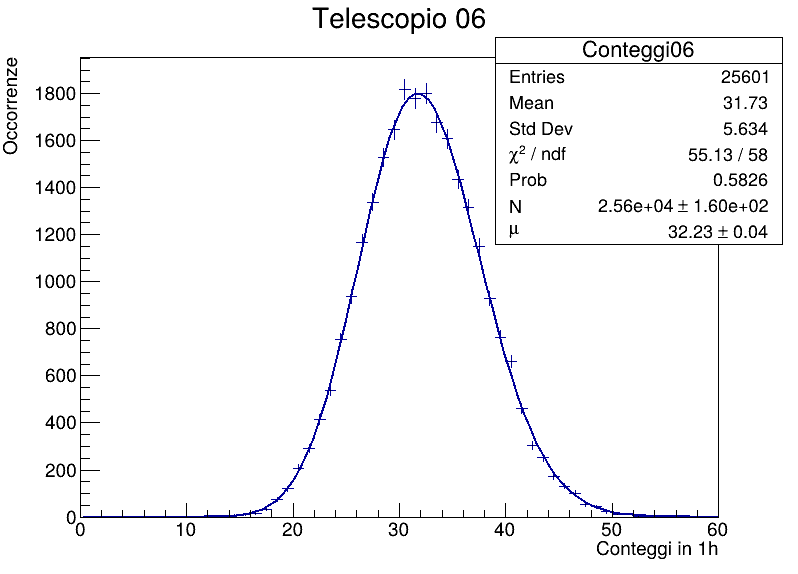
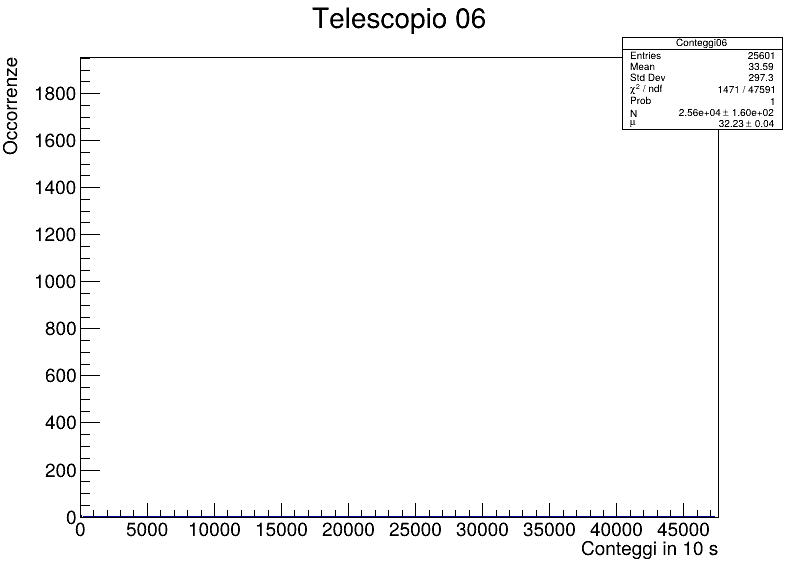
Poissonian distribution

diff --git a/Sciami/flux_graphs_10.h b/Sciami/flux_graphs_10.h
@@ -211,7 +211,7 @@ void Rategraph3(double& interval, int& num_intervals, const std::vector<double>&
 
     c1->Update();
     
-    c1->SaveAs("Risultati/Rateneltempo_7d.png");
+    //c1->SaveAs("Risultati/Rateneltempo_7d.png");
 } 
 
 // Monitoraggio in funzione del tempo dell'efficienza dei PMT del Telescopio06 con fit lineare
@@ -293,7 +293,7 @@ void efficiency_set06(double& interval_eff,int& num_intervals_eff,std::vector<do
 }
 
 // Funzione per creare l'istogramma dei conteggi in un intervallo temporale fissato e fare il fit poissoniano
-double histogram_fitpoiss(double interval,int num_intervals,std::vector <double>& times,const char* hist_name, const char* title, Color_t color){
+double histogram_fitpoiss(double interval,int num_intervals,std::vector <double>& times,const char* hist_name, const char* title, Color_t color, int correction=0){
     // Vettore per memorizzare il conteggio degli eventi per ciascun intervallo
     std::vector<int> counts(num_intervals, 0);
 
@@ -302,6 +302,21 @@ double histogram_fitpoiss(double interval,int num_intervals,std::vector <double>
         int bin = static_cast<int>(t / interval);
         if (bin < num_intervals) {
             counts[bin]++;
+        }
+    }
+    
+    double accidental_rate = 0.368; // Hz
+    double expected_accidentals = accidental_rate * interval;
+
+    // Calcolo delle coincidenze accidentali
+    if (correction > 0) {
+        for (int i = 0; i < num_intervals; ++i) {
+            std::cout<<counts[i]<<std::endl;
+            if (counts[i] > expected_accidentals) {
+                counts[i] -=expected_accidentals;
+            } else {
+                counts[i] = 0; // Imposta a zero se il conteggio è minore o uguale
+            }
         }
     }
 
@@ -317,7 +332,7 @@ double histogram_fitpoiss(double interval,int num_intervals,std::vector <double>
     for (int i = 1; i <= hist->GetNbinsX(); ++i) {
         hist->SetBinError(i, std::sqrt(static_cast<double>(hist->GetBinContent(i))));
     }
-    hist->SetXTitle("Conteggi in 1h");
+    hist->SetXTitle("Conteggi in 10 s");
     hist->SetYTitle("Occorrenze");
 
     // Definisci la funzione di fit poissoniana con due parametri liberi: N e μ
@@ -333,11 +348,11 @@ double histogram_fitpoiss(double interval,int num_intervals,std::vector <double>
     gStyle->SetOptStat(1111); // Mostra Entries, Mean, Std Dev
     gStyle->SetOptFit(1111);  // Mostra i risultati del fit inclusi Chi^2/NDF, Prob, N e λ
 
-    // Calcola il chi quadro e il p-value
-    double chi2 = poissonFit->GetChisquare();
-    double ndf = poissonFit->GetNDF();
-    double p_value = 1 - TMath::Prob(chi2, ndf);
-    std::cout << "P-value: " << p_value << std::endl;
+    double mu = poissonFit->GetParameter(1);
+    double muError = poissonFit->GetParError(1);
+    // Stampa mu con 5 cifre significative
+    std::cout << std::fixed << std::setprecision(5);
+    std::cout << "Valore di mu: " << mu << " ± " << muError << std::endl;
 
     // Crea il canvas e disegna l'istogramma con il fit
     TCanvas* canvaspoiss = new TCanvas("canvaspoiss", "Fit Poissoniano dei Conteggi", 800, 600);
@@ -350,12 +365,13 @@ double histogram_fitpoiss(double interval,int num_intervals,std::vector <double>
     
     // Estrazione del valore di best fit per mu
     double best_fit_rate = poissonFit->GetParameter("#mu")/static_cast<double>(10);
-    std::cout << "Valore di best fit per mu: " << best_fit_rate << std::endl;
+    double sigma_best_fit_rate=poissonFit->GetParError(1)/static_cast<double>(10);
+    std::cout << "Valore di best fit per il rate: " << best_fit_rate << " +- "<< sigma_best_fit_rate<<" Hz"<< std::endl;
     return best_fit_rate;
 }
 
 // Funzione per creare l'istogramma degli intervalli di tempo e fare il fit esponenziale
-void histogram_fitexponential(std::vector<double>& times, const double& guess_rate) {
+void histogram_fitexponential(std::vector<double>& times, const double& guess_rate, const char* hist_name, const char* title, Color_t color, int correction=0) {
     // Calcolo delle differenze tra i tempi
     std::vector<double> time_differences;
     for (size_t i = 1; i < times.size(); ++i) {
@@ -363,32 +379,47 @@ void histogram_fitexponential(std::vector<double>& times, const double& guess_ra
     }
 
     // Creazione dell'istogramma con 100 bins equispaziati
-    TH1F* h1 = new TH1F("h1", "Differenze tra i tempi del telescopio 04;Differenza di Tempo (s);Conteggi", 100, 0, *std::max_element(time_differences.begin(), time_differences.end()));
+    TH1F* h1 = new TH1F(hist_name, title, 100, 0, *std::max_element(time_differences.begin(), time_differences.end()));
+
+    // Calcolo delle coincidenze accidentali
+    double Nd_acc = calculate_double_accidental_counts(); // Implementa questa funzione
+    double Nt_acc = calculate_triple_accidental_counts(Nd_acc); // Implementa questa funzione
 
     // Riempimento dell'istogramma con le differenze tra i tempi
     for (double t_diff : time_differences) {
-        h1->Fill(t_diff);
+        if (t_diff > 0) { // Considera solo valori positivi
+            h1->Fill(t_diff);
+        }
     }
+
+    // Sottrazione delle coincidenze accidentali
+    for (int bin = 1; bin <= h1->GetNbinsX(); ++bin) {
+        double count = h1->GetBinContent(bin);
+        h1->SetBinContent(bin, count - Nd_acc); // Sottrai le coincidenze accidentali
+    }
+
+    h1->SetXTitle("Differenza di tempo (s)");
+    h1->SetYTitle("Conteggi");
 
     // Creazione della funzione esponenziale per il fit
     TF1* expFit = new TF1("expFit", "[0]*exp(-x*[1])", 0, *std::max_element(time_differences.begin(), time_differences.end()));
-    expFit->SetParName(0, "N");  // Rinomina il parametro 0 a "N"
-    expFit->SetParName(1, "#lambda");  // Rinomina il parametro 1 a "Lambda"
-    expFit->SetParameters(270e3, guess_rate); // Imposta valori iniziali per i parametri del fit: N e lambda
-
+    expFit->SetParName(0, "N");
+    expFit->SetParName(1, "#lambda");
+    expFit->SetParameters(270e3, guess_rate);
 
     // Esecuzione del fit esponenziale con il metodo di Likelihood
     h1->Fit("expFit", "L");
 
-    // Configura il box delle statistiche per mostrare ulteriori informazioni
-    gStyle->SetOptStat(1111); // Mostra Entries, Mean, Std Dev
-    gStyle->SetOptFit(1111);  // Mostra i risultati del fit inclusi Chi^2/NDF, Prob, N e λ
+    // Configura il box delle statistiche
+    gStyle->SetOptStat(1111);
+    gStyle->SetOptFit(1011);
 
     // Creazione del canvas e disegno dell'istogramma con il fit
     TCanvas* c4 = new TCanvas("c4", "Istogramma delle differenze tra i tempi (singolo telescopio)", 800, 600);
     c4->cd(1);
     h1->Draw();
     expFit->Draw("same");
+    expFit->SetLineColor(color);
     c4->Update();
 }
 

diff --git a/Sciami/atmosphere.h b/Sciami/atmosphere.h
@@ -300,35 +300,23 @@ void plotCorrelationTemp(const std::vector<BinnedData>& atmDataBins, double& int
     graph3->SetLineColor(kGreen + 2); 
     graph3->Draw("AP");
 
-    
     // Esegui il fit lineare
     TF1* fitFunc = new TF1("fitFunc", "pol1", 0, 14); // Sostituisci con l'intervallo appropriato
     
     // Impostazione dei parametri iniziali
     fitFunc->SetParameter(0, 11.3); // Intercetta iniziale
     fitFunc->SetParameter(1, +0.02); // Coefficiente angolare iniziale
+    
+    fitFunc->SetParName(0, "intercetta:");  // Rinomina il parametro 0 a "N"
+    fitFunc->SetParName(1, "coefficiente");
     graph3->Fit(fitFunc);
 
-
-    // Stampa i risultati del fit con incertezze
-    double slope = fitFunc->GetParameter(1);   // Coefficiente angolare
-    double intercept = fitFunc->GetParameter(0); // Intercetta
-    double slopeError = fitFunc->GetParError(1);   // Incertezza sul coefficiente angolare
-    double interceptError = fitFunc->GetParError(0); // Incertezza sull'intercetta
-
-    // Imposta la precisione a due cifre significative
-    std::cout << std::fixed << std::setprecision(2);
-    
-    // Aggiungi media campionaria, deviazione standard e incertezza al grafico
-    TPaveText* pave1 = new TPaveText(0.65, 0.85, 0.85, 0.95, "NDC");
-    pave1->SetFillColor(kWhite);
-    pave1->SetBorderSize(1);
-    pave1->SetTextAlign(14);
-    pave1->AddText(Form("Coefficiente angolare: %.3f #pm %.3f Hz/#circC", slope, slopeError));
-    pave1->AddText(Form("Intercetta = %.2f #pm %.2f Hz", intercept, interceptError));
-    pave1->Draw();
+    // Configura il box delle statistiche per mostrare ulteriori informazioni
+    gStyle->SetOptStat(1111); // Mostra Entries, Mean, Std Dev
+    gStyle->SetOptFit(1111);  // Mostra i risultati del fit inclusi Chi^2/NDF
 
     canvastemp->Update();
+    //canvastemp->SaveAs("Risultati/CorrTemp_3d.png");
 }
 
 void plotCorrTemp1d(const std::vector<BinnedData>& atmDataBins, double& interval, int& num_intervals, const std::vector<double>& t1,
@@ -440,27 +428,17 @@ void plotCorrelationPress(const std::vector<BinnedData>& atmDataBins, double& in
     // Impostazione dei parametri iniziali
     fitFunc->SetParameter(0, 11.10); // Intercetta iniziale
     fitFunc->SetParameter(1, -0.02); // Coefficiente angolare iniziale
+
+    fitFunc->SetParName(0, "intercetta:");  // Rinomina il parametro 0 a "N"
+    fitFunc->SetParName(1, "coefficiente");
     graph3->Fit(fitFunc);
 
-    // Stampa i risultati del fit con incertezze
-    double slope = fitFunc->GetParameter(1);   // Coefficiente angolare
-    double intercept = fitFunc->GetParameter(0); // Intercetta
-    double slopeError = fitFunc->GetParError(1);   // Incertezza sul coefficiente angolare
-    double interceptError = fitFunc->GetParError(0); // Incertezza sull'intercetta
-
-    // Imposta la precisione a due cifre significative
-    std::cout << std::fixed << std::setprecision(2);
+    // Configura il box delle statistiche per mostrare ulteriori informazioni
+    gStyle->SetOptStat(1111); // Mostra Entries, Mean, Std Dev
+    gStyle->SetOptFit(1111);  // Mostra i risultati del fit inclusi Chi^2/NDF
     
-    // Aggiungi media campionaria, deviazione standard e incertezza al grafico
-    TPaveText* pave2 = new TPaveText(0.65, 0.85, 0.85, 0.95, "NDC");
-    pave2->SetFillColor(kWhite);
-    pave2->SetBorderSize(1);
-    pave2->SetTextAlign(14);
-    pave2->AddText(Form("Coefficiente angolare: %.3f #pm %.3f Hz/mbar", slope, slopeError));
-    pave2->AddText(Form("Intercetta = %.2f #pm %.2f Hz", intercept, interceptError));
-    pave2->Draw();
-
     canvaspress->Update();
+    //canvaspress->SaveAs("Risultati/CorrPress_3d.png");
 }
 
 // Funzione per tracciare il grafico di correlazione (umiditàr)
@@ -491,13 +469,15 @@ void plotCorrelationHum(const std::vector<BinnedData>& atmDataBins, double& inte
     TCanvas* canvashum = new TCanvas("canvashum", "Correlazione tra Umidità e Rates", 800, 600);
 	canvashum->SetGrid(); 
 
-    graph3->SetTitle("Setup04 e Umidita;Umidita (%);Rate (Hz)"); 
+    graph3->SetTitle("Setup04 e Umidita'; Umidita' (%);Rate (Hz)"); 
     graph3->SetMarkerStyle(8); 
     graph3->SetMarkerSize(1);
     graph3->SetMarkerColor(kGreen + 2);
     graph3->SetLineColor(kGreen + 2); //serve per avere lo stesso colore anche nelle barre di errore
     graph3->Draw("AP");
     canvashum->Update();
+    
+    //canvashum->SaveAs("Risultati/CorrHum_3d.png");
 }
 
 // Funzione per tracciare parametri atmosferici in funzione del tempo
@@ -540,12 +520,12 @@ void plotWeatherData(const std::vector<BinnedData>& atmDataBins){
 
     canvasatm->cd(3);
     TGraph* graphhum= new TGraph(hours.size(), hours.data(), hum.data());
-    graphhum->SetTitle("Umidita;Tempo (h);Umidita (%)"); 
+    graphhum->SetTitle("Umidita';Tempo (h);Umidita' (%)"); 
     graphhum->SetMarkerStyle(22); 
     graphhum->SetMarkerSize(1);
     graphhum->Draw("APL");   
 
-    canvasatm->SaveAs("Risultati/Atm_7d.png");
+    //canvasatm->SaveAs("Risultati/Atm_7d.png");
     return;
 }
 

diff --git a/Sciami/Acquisition_3d.cpp b/Sciami/Acquisition_3d.cpp
@@ -62,6 +62,38 @@ int acquisizione3giorni() {
     int num_intervals=static_cast<int>(total_time / interval);
     Rategraph3(interval,num_intervals,channelTimes[1],channelTimes[3], channelTimes[6]);
 
+    std::cout << "Distribuzione poissoniana" << std::endl;
+
+    double rate06 = histogram_fitpoiss(10, static_cast<int>(total_time / 10), channelTimes[1], "Conteggi06","Telescopio 06",kBlue + 2);
+    //canvas06->SaveAs("Risultati/Poisson06_3d.png");
+
+    double rate08 = histogram_fitpoiss(10, static_cast<int>(total_time / 10), channelTimes[3], "Conteggi08","Telescopio 08",kRed + 2,1);
+    //canvas08->SaveAs("Risultati/Poisson08_3d.png");
+
+    double rate04=histogram_fitpoiss(10, static_cast<int>(total_time / 10), channelTimes[6], "Conteggi04", "Telescopio 04",kGreen + 2);
+    //canvas04->SaveAs("Risultati/Poisson04_3d.png");
+
+    std::cout<<"Distribuzione esponenziale"<<std::endl;
+
+    // Inizializzazione e utilizzo di canvas06
+    TCanvas* canvas06 = new TCanvas("canvas06", "Fit esponenziale Telescopio 06", 800, 600);
+    canvas06->cd();
+    histogram_fitexponential(channelTimes[1], rate06,"Dt Setup06","Telescopio 06",kBlue + 2);
+    canvas06->Update();
+
+    TCanvas* canvas08 = new TCanvas("canvas08", "Fit esponenziale Telescopio 08", 800, 600);
+    canvas08->cd();
+    histogram_fitexponential(channelTimes[3], rate08,"Dt Setup08","Telescopio 08",kRed + 2,1);
+    canvas08->Update();
+
+    TCanvas* canvas04 = new TCanvas("canvas04", "Fit esponenziale Telescopio 04", 800, 600);
+    canvas04->cd();
+    histogram_fitexponential(channelTimes[6], rate04,"Dt Setup04","Telescopio 04",kGreen + 2);
+    canvas04->Update();
+
+    std::cout<<"Efficienza dei fotomoltiplicatori nel tempo"<<std::endl;
+
+    /*
     // Vettore di AtmData per memorizzare i dati atmosferici
     std::vector<AtmData> atmDataList;
     //effettivi dati atmosferici utilizzati per l'operazione di correlazione
@@ -79,37 +111,14 @@ int acquisizione3giorni() {
 
     std::cout<<"Correlazione tra parametri atmosferici e rate "<<std::endl;
     plotCorrelationTemp(atmDataBins, interval, num_intervals, channelTimes[1],channelTimes[3], channelTimes[6]);
-    //plotCorrTemp1d(atmDataBins, interval, num_intervals, channelTimes[1],channelTimes[3], channelTimes[6]);
+    plotCorrTemp1d(atmDataBins, interval, num_intervals, channelTimes[1],channelTimes[3], channelTimes[6]);
     plotCorrelationPress(atmDataBins, interval, num_intervals, channelTimes[1],channelTimes[3], channelTimes[6]);
     TCanvas* canvasHum = new TCanvas("canvasHum", "Correlazione tra Umidità e Rates", 800, 600);
     canvasHum->cd();
     plotCorrelationHum(atmDataBins, interval, num_intervals, channelTimes[1], channelTimes[3], channelTimes[6]);
     canvasHum->Update(); // Aggiorna per visualizzare il grafico
-
-    std::cout << "Distribuzione poissoniana" << std::endl;
-
-    TCanvas* canvas06 = new TCanvas("canvas06", "Fit Poissoniano Telescopio 06", 800, 600);
-    canvas06->cd();
-    double rate06 = histogram_fitpoiss(10, static_cast<int>(total_time / 10), channelTimes[1], "Conteggi06","Telescopio 06",kBlue + 2);
-    canvas06->Update();
-    canvas06->SaveAs("Risultati/Poisson06_3d.png");
-
-    //TCanvas* canvas08 = new TCanvas("canvas08", "Fit Poissoniano Telescopio 08", 800, 600);
-    //canvas08->cd();
-    double rate08 = histogram_fitpoiss(10, static_cast<int>(total_time / 10), channelTimes[3], "Conteggi08","Telescopio 08",kRed + 2);
-    //canvas08->Update();
-    //canvas08->SaveAs("Risultati/Poisson08_3d.png");
-
-    //TCanvas* canvas04 = new TCanvas("canvas04", "Fit Poissoniano Telescopio 04", 800, 600);
-    //canvas04->cd();
-    double rate04=histogram_fitpoiss(10, static_cast<int>(total_time / 10), channelTimes[6], "Conteggi04", "Telescopio 04",kGreen + 2);
-    //canvas04->Update();
-    //canvas04->SaveAs("Risultati/Poisson04_3d.png");
-
-    std::cout<<"Distribuzione esponenziale"<<std::endl;
     
-    
-    std::cout<<"Efficienza dei fotomoltiplicatori nel tempo"<<std::endl;
+    */
 
     return 0;
 }

diff --git a/Sciami/Acquisition_7d.cpp b/Sciami/Acquisition_7d.cpp
@@ -62,7 +62,24 @@ int acquisizione7giorni() {
     int num_intervals=static_cast<int>(total_time / interval);
     Rategraph3(interval,num_intervals,channelTimes[1],channelTimes[3], channelTimes[6]);
 
-    
+    std::cout << "Distribuzione poissoniana" << std::endl;
+    //TCanvas* canvas06 = new TCanvas("canvas06", "Fit Poissoniano Telescopio 06", 800, 600);
+    //canvas06->cd();
+    double rate06 = histogram_fitpoiss(10, static_cast<int>(total_time / 10), channelTimes[1], "Conteggi06","Telescopio 06",kBlue + 2);
+    //canvas06->Update();
+    //canvas06->SaveAs("Risultati/Poisson06_7d.png");
+    TCanvas* canvas08 = new TCanvas("canvas08", "Fit Poissoniano Telescopio 08", 800, 600);
+    //canvas08->cd();
+    double rate08 = histogram_fitpoiss(10, static_cast<int>(total_time / 10), channelTimes[3], "Conteggi08","Telescopio 08",kRed + 2,1);
+    //canvas08->Update();
+    //canvas08->SaveAs("Risultati/Poisson08_7d.png");
+    //TCanvas* canvas04 = new TCanvas("canvas04", "Fit Poissoniano Telescopio 04", 800, 600);
+    //canvas04->cd();
+    double rate04=histogram_fitpoiss(10, static_cast<int>(total_time / 10), channelTimes[6], "Conteggi04", "Telescopio 04",kGreen + 2);
+    //canvas04->Update();
+    //canvas04->SaveAs("Risultati/Poisson04_7d.png");
+
+/*
     // Vettore di AtmData per memorizzare i dati atmosferici
     std::vector<AtmData> atmDataList;
     //effettivi dati atmosferici utilizzati per l'operazione di correlazione
@@ -83,27 +100,7 @@ int acquisizione7giorni() {
     TCanvas* canvasHum = new TCanvas("canvasHum", "Correlazione tra Umidità e Rates", 800, 600);
     canvasHum->cd();
     plotCorrelationHum(atmDataBins, interval, num_intervals, channelTimes[1], channelTimes[3], channelTimes[6]);
-    canvasHum->Update(); // Aggiorna per visualizzare il grafico
-
-    std::cout << "Distribuzione poissoniana" << std::endl;
-
-    TCanvas* canvas06 = new TCanvas("canvas06", "Fit Poissoniano Telescopio 06", 800, 600);
-    canvas06->cd();
-    double rate06 = histogram_fitpoiss(10, static_cast<int>(total_time / 10), channelTimes[1], "Conteggi06","Telescopio 06",kBlue + 2);
-    canvas06->Update();
-    canvas06->SaveAs("Risultati/Poisson06_7d.png");
-
-    TCanvas* canvas08 = new TCanvas("canvas08", "Fit Poissoniano Telescopio 08", 800, 600);
-    canvas08->cd();
-    double rate08 = histogram_fitpoiss(10, static_cast<int>(total_time / 10), channelTimes[3], "Conteggi08","Telescopio 08",kRed + 2);
-    canvas08->Update();
-    canvas08->SaveAs("Risultati/Poisson08_7d.png");
-
-    TCanvas* canvas04 = new TCanvas("canvas04", "Fit Poissoniano Telescopio 04", 800, 600);
-    canvas04->cd();
-    double rate04=histogram_fitpoiss(10, static_cast<int>(total_time / 10), channelTimes[6], "Conteggi04", "Telescopio 04",kGreen + 2);
-    canvas04->Update();
-    canvas04->SaveAs("Risultati/Poisson04_7d.png");
+    canvasHum->Update(); // Aggiorna per visualizzare il grafico*/
 
     return 0;
 }

diff --git a/Sciami/README.md b/Sciami/README.md
@@ -6,8 +6,8 @@
 - _Efficiency_Setup08.cpp_, _Efficiency_Setup06.cpp_, _Efficiency_Stanza2004.cpp_ : C++ code to calculate the efficiency and detection rate for each PMT in each Setup for different Alimentation voltage. It considers also the correction due to accidental counts.
 - _ToyMonteCarlo.py_ : Python code to estimate the cosmic flux  detection rate for each setup, by adjusting for the geometrical acceptance of each setup.
 - _read_data10.h_: Library in C++ that contains the definition of the reading functions required to read the data coming from the De10Nano DAQ system. 
-- _flux_graphs_10.h_: Library in C++ that contains the function to calculate the rates of each of our telescopes. Creates the graphs of the rate as a function of time and exponential and poissonian distributions of each telescope cosmic rays detection.
-- _atmosphere.h_: Library in C++ that contains the definition of the reading functions required to read and bin the data coming from the UniPi meteorologic station. Creates the dispersion graphs of the rate of each each telescope as a function of these atmospheric parameters, such as humidity, temperature and pression. 
+- _flux_graphs_10.h_: Library in C++ that contains the function to calculate the rates of each of our telescopes. Creates the graphs of the rate as a function of time and the exponential and poissonian distributions of cosmic rays detected for each telescope.
+- _atmosphere.h_: Library in C++ that contains the definition of the reading functions required to read and bin the data coming from the UniPi meteorologic station. Creates the dispersion graphs of the rate of each each telescope as a function of these atmospheric parameters. 
 
 - _read_data0.h_ : File C++ that contains the definition of the reading functions required to read the data coming from the De0Nano DAQ system. It also reconverts the time in linear manner.
 - _De0Nano.cpp_ : Code to read the data coming from the De0Nano FPGA acqusition system. Creates a graph of the rate of each telescope as a function of time. Creates an histogram of the counts distribution for each telescope. 
